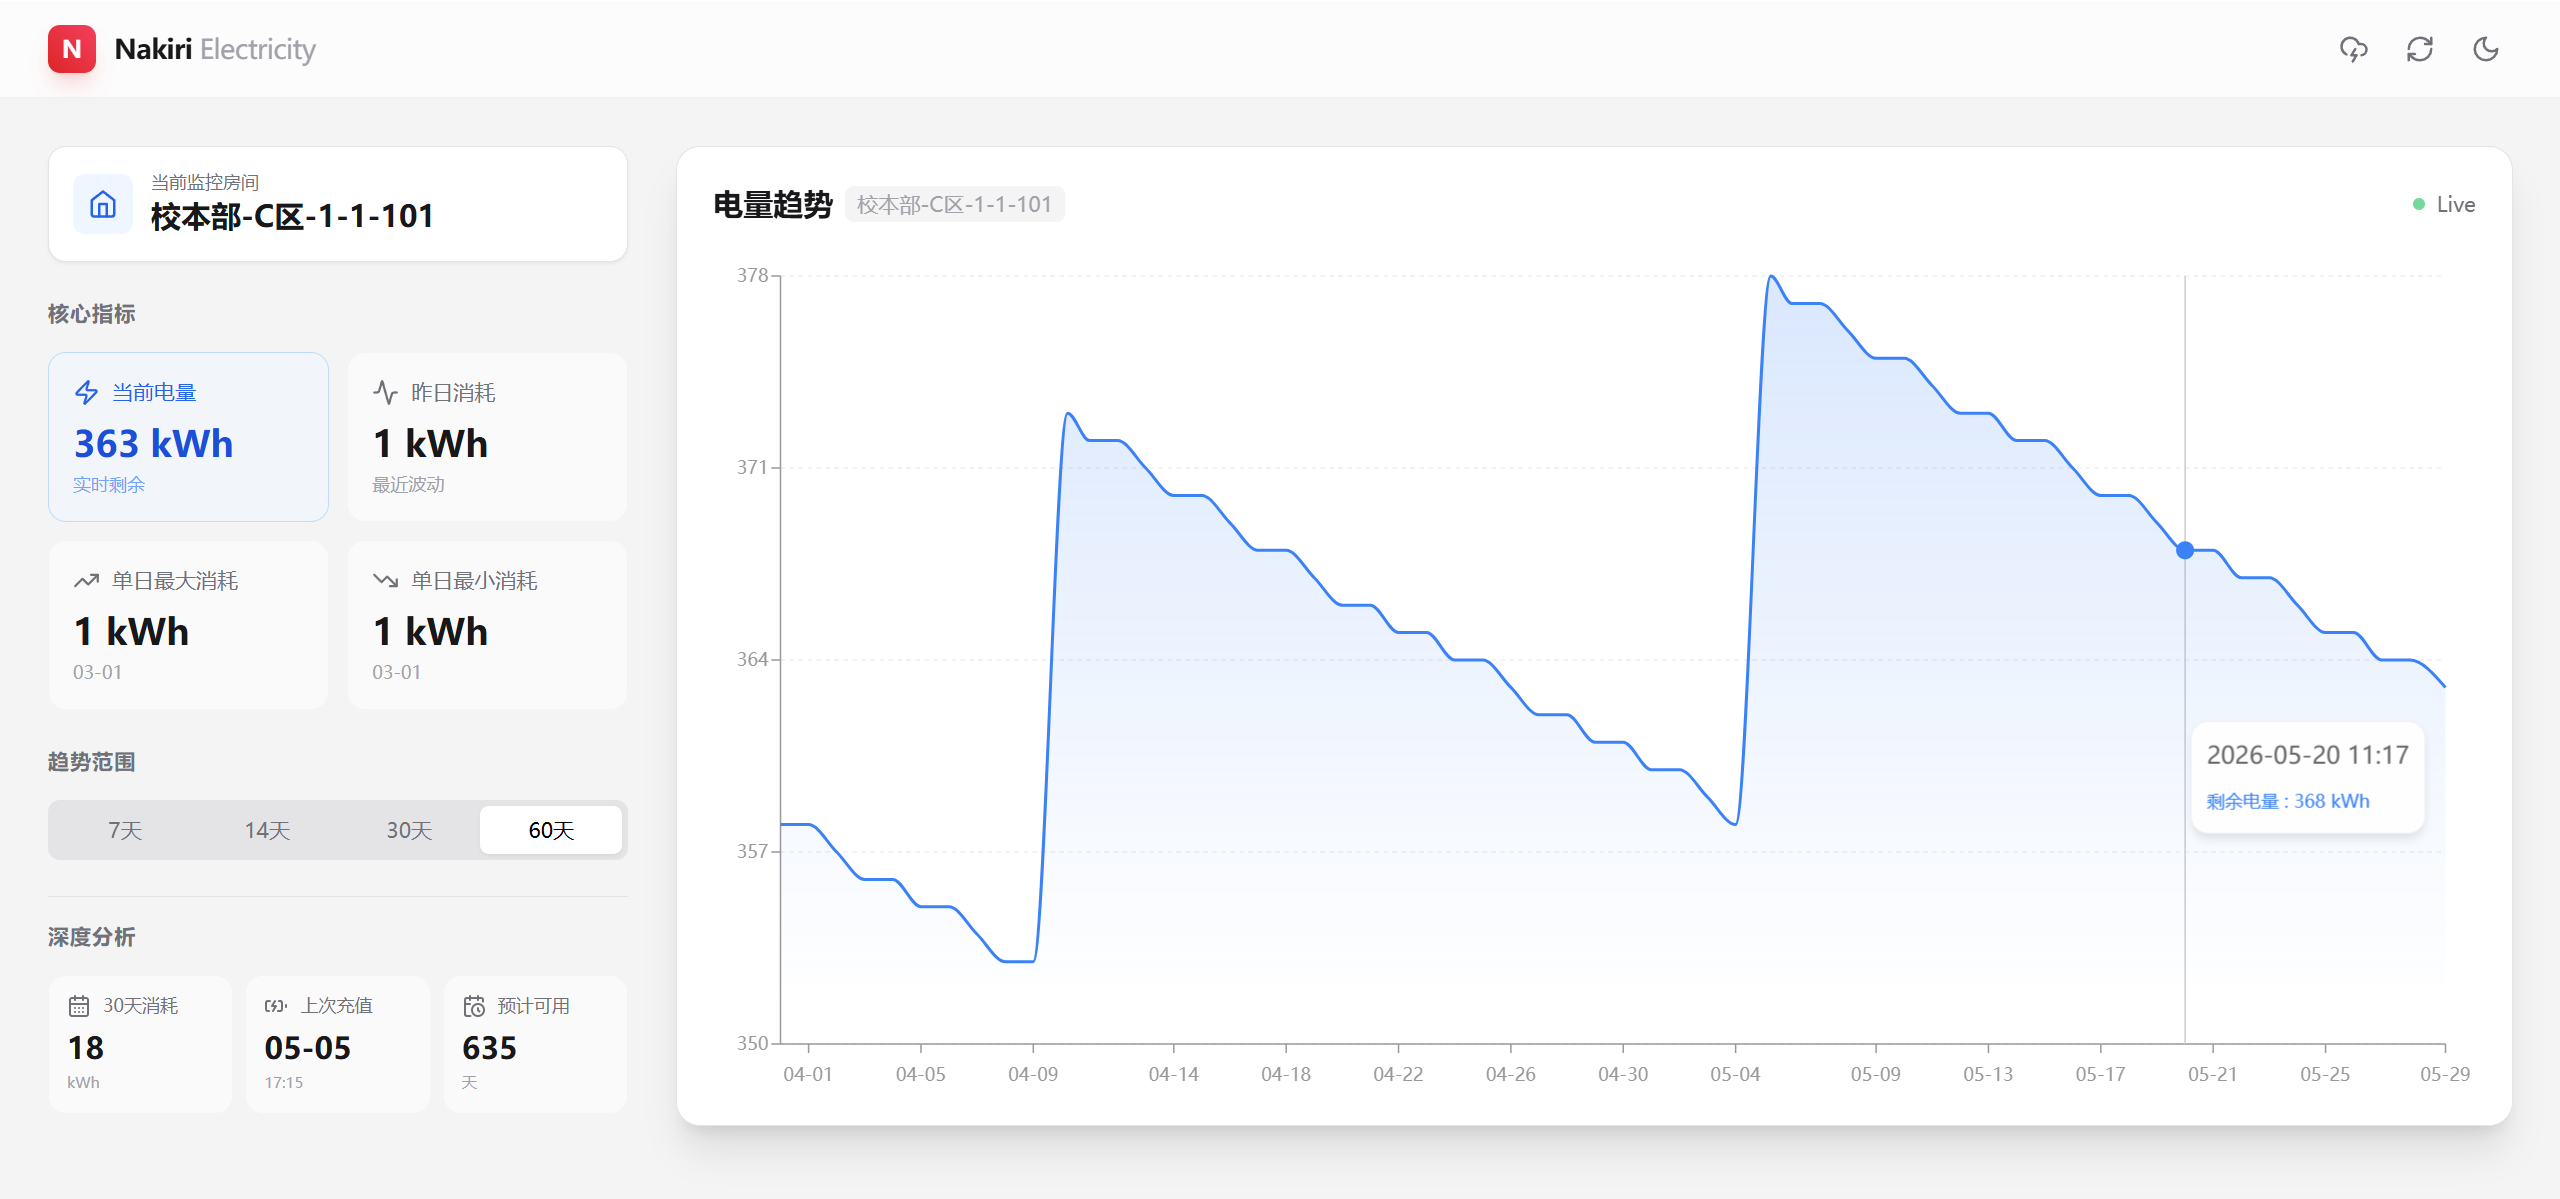
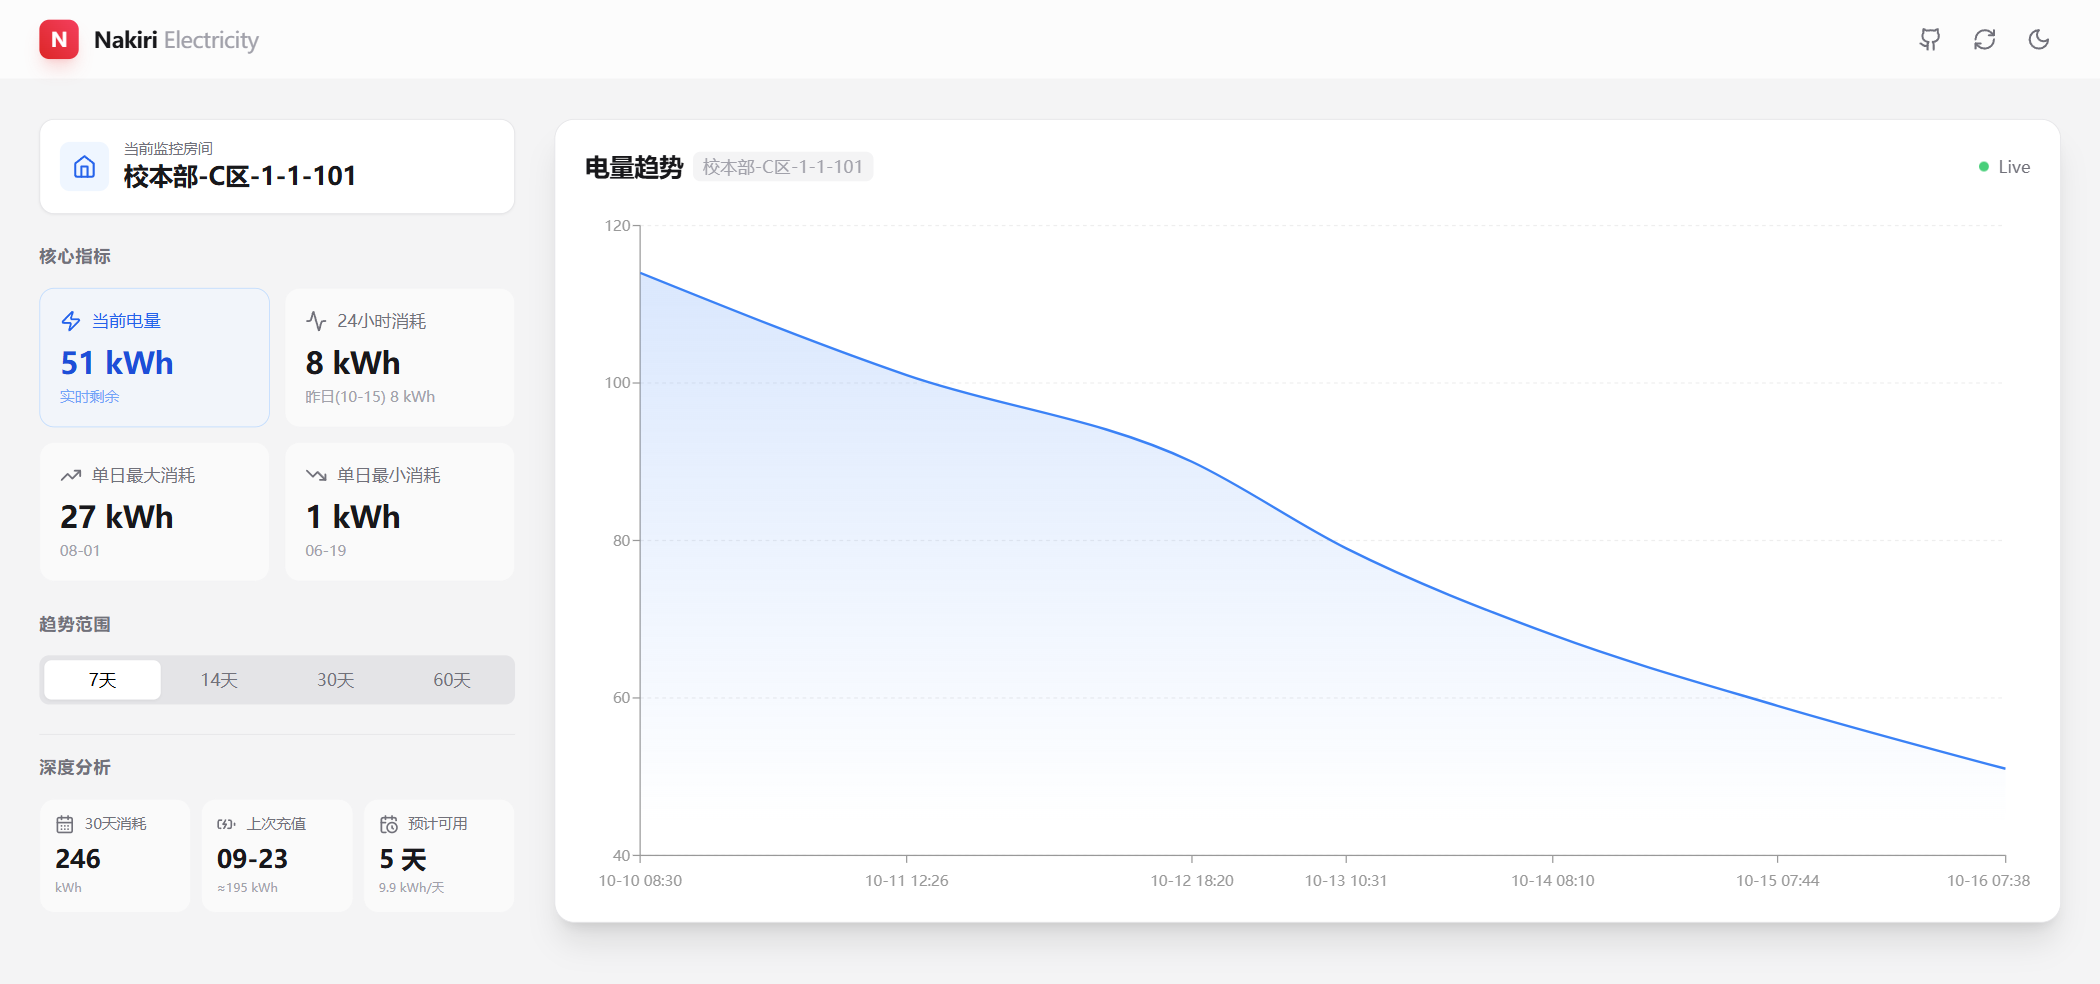
docs: 补充采集与统计口径说明
- README 保持部署文档范围，只保留行为变化相关的说明
- 实测数据特征、存储格式、口径约定与已知限制移到 docs/data-notes.md
- 更新面板截图

diff --git a/docs/data-notes.md b/docs/data-notes.md
@@ -1,0 +1,74 @@
+# 采集与统计口径说明
+
+这份文档解释「为什么采集脚本和统计逻辑是这样写的」，面向修改本项目的人。
+所有参数都来自对 `public/data.json` 真实读数的统计（2026-05-29 ~ 2026-10-16，原始 680 条采样），
+运行 `npm run analyze` 可以随时复现这份报告。
+
+## 实测特征与对应决策
+
+| 特征 | 实测结果 | 带来的设计决策 |
+|---|---|---|
+| 读数分辨率 | 680/680 条读数为整数 → **1 kWh 台阶** | 判定「变化」用 `CHANGE_EPSILON = 0.05`；页面整数显示，出现小数才保留一位 |
+| 更新节奏 | 137 次消耗跳变 / 137 个用电日 ≈ **1 次/天** | 源站每天只结算一次，3 小时采集已经足够；再密只是重复采样 |
+| 采样冗余度 | 680 条里有 528 条（**78%**）与上一条数值完全相同 | 只有数值变化的读数才进 history：`data.json` 从 680 条降到 **152 条**（13.6 KB） |
+| 存活 vs 数据 | 把「没停电但没用电」也写成数据点，图上就会出现水平线 | 存活标记单独放 `room_info.lastCheckedAt`（12h 心跳），history 与图表只承载真实变化 |
+| 结算时刻 | 137 次下降跳变的观测区间交集落在本地 **05:00**（127/137 支持） | 「用电日」按本地 05:00 换日；否则「昨日消耗」会整体错一天 |
+| 跳变观测延迟 | 原始采样间隔 p50 4.3h、p90 8.0h、最大 23.8h | 跳变的**发生时刻**只能确定在 `(上次读数, 本次读数]` 内，脚本按此维护结算口径 |
+| 充值 | 14 次上升跳变，多发生在余额低位 | 上升 = `充值 − 期间消耗` 的净跳变，无法反推精确充值额，页面统一标 `≈` |
+| 空提交 | 近 80 次数据提交里 **68%** 只新增了重复值 | 未变化时不改写文件，同时把 cron 挪出 `:00` 整点（定时任务拥堵会让运行被推迟 1~2h） |
+
+## 存储格式
+
+```json
+{
+  "room_info": {
+    "roomId": "1-1-101",
+    "displayName": "校本部-C区-1-1-101",
+    "updatedAt": "…",      // 读数最后一次「发生变化」的时刻
+    "lastCheckedAt": "…"   // 最后一次成功采集的时刻（数值没变时也会刷新）
+  },
+  "history": [
+    { "timestamp": "…", "room_id": "1-1-101", "kWh": 348, "src": "start" },
+    { "timestamp": "…", "room_id": "1-1-101", "kWh": 341, "src": "change" }
+  ]
+}
+```
+
+- history 每条占一行，git diff 只会新增一行；`src` 取 `start` / `change`。
+- **history 里不会出现同值记录**：数值没变时脚本要么完全不写盘，要么（距上次写盘超过 12h）只刷新 `lastCheckedAt`。
+- 前端兼容旧格式：历史里的同值条目会在绘图前被折叠，`lastCheckedAt` 缺失时回落到 `updatedAt`。
+
+## 口径约定
+
+- `kWh` 是**剩余电量**：下降 = 用电，上升 = 充值。
+- 用电日按**本地 05:00** 换日。跳变只能确定发生在 `(上次读数, 本次读数]` 内，
+  落在区间内最近一个边界结算的是**前一个**用电日。
+- 「近 24 小时消耗」「7 天日均」等滚动窗口锚在**最后一次成功采集**（`lastCheckedAt`），
+  而不是最后一次数值变化 —— 用后者会把前一天的跳变也圈进 24h 窗口（实测 8 kWh 会被算成 17 kWh）。
+- 「数据陈旧」判断同样以 `lastCheckedAt` 为准（阈值 24h）：假期几天不跳变是正常的，不该报陈旧。
+
+## 不变量（均有测试覆盖）
+
+1. **压缩无损**：`compactHistory()` 只删重复采样，`buildSteps()` 的跳变序列逐条一致（151 条逐条校验）。
+2. **账目自洽**：累计消耗 − 累计充值 == 首末读数差（实测 1618 − 1321 = 348 − 51）。
+3. **口径一致**：采集脚本、前端、数据报告、阈值告警共用 `src/lib/electricity.js` 这一份领域逻辑。
+
+## 脚本
+
+| 命令 | 作用 |
+|---|---|
+| `node scripts/scrape.js` | 采集一次：数值变了才写 history；没变则按 12h 心跳刷新 `lastCheckedAt`，否则完全不写盘 |
+| `node scripts/scrape.js --dry-run` | 只抓取与判定，不写文件 |
+| `node scripts/analyze-data.js [--json]` | 数据特征与质量报告，CI 里写入 Step Summary 并在异常时 `::warning::` |
+| `node scripts/compact-data.js [--write]` | 把历史压成「只留变化」；写入前强制校验跳变序列等价 |
+| `node scripts/check-threshold.js` | 阈值判断，区分「刚刚跌破」与「持续偏低」，并给出预计可用天数 |
+| `npm test` | 33 项单测与采集端到端测试（含真实数据不变量） |
+
+## 已知限制
+
+- **结算小时无法再从存储反推**：history 只存变更点，相邻条目间隔 ~24h，任何时刻都落在每个跳变的观测区间内，
+  估计值会退化成 0:00。`DAY_BOUNDARY_HOUR = 5` 来自原始逐次采样的统计，由合成数据测试守护。
+- **跳变间隔 >24h 不等于漏采**：可能是「当天没用电」。能反映漏采的是采集间隔本身，
+  因此该判断放在采集时刻（距上次 `lastCheckedAt` >24h 时告警），而不是对历史做统计。
+- 采集脚本的失败是显式的：令牌失效、响应不是 JSON、`data.json` 解析失败都会以非 0 退出码结束并让 job 变红，
+  且**绝不**改写已有的 `data.json`。

diff --git a/README.md b/README.md
@@ -10,12 +10,14 @@
 
 ## ✨ 功能特性
 
-- 📊 **深度数据分析**：实时电量、昨日消耗、单日最大/最小消耗。
+- 📊 **深度数据分析**：实时电量、近 24 小时消耗、昨日消耗、单日最大/最小消耗。
 - 📈 **交互式图表**：支持平滑曲线、数据点交互、多时间维度（7天/14天/30天/60天）。
 - 🎨 **现代化 UI**：基于 Tailwind CSS，完美适配移动端，支持深色模式 (Dark Mode)。
 - 🤖 **全自动运行**：利用 GitHub Actions 自动抓取数据，无需人工干预。
 - ⚡ **智能预测**：基于历史数据估算剩余可用天数，检测充值记录。
-- 🔔 **低电量提醒**：当最新电量低于阈值且本次有新提交时，自动给该 commit 添加提醒评论。
+- 🔔 **低电量提醒**：电量跌破阈值时自动给该 commit 添加提醒评论。
+- 🩺 **数据质量自检**：每次采集后自动核对数据特征，策略与数据不匹配时给出告警。
+- 🧹 **历史只记变化**：读数没变时不写入历史，也就不产生无意义的提交。
 
 ## 🚀 快速部署 (Fork & Run)
 
@@ -81,19 +83,29 @@
    npm run dev
    ```
 
+常用命令：`npm test`（测试）、`npm run scrape`（本地采集一次）、`npm run analyze`（数据质量报告）、`npm run compact`（压缩历史，预览模式）。
+
+> 采集与统计口径（为什么这样设计、数据有哪些特征）：见 [docs/data-notes.md](docs/data-notes.md)。
+
 ## ❓ 常见问题 (FAQ)
 
 **Q: 数据多久更新一次？**
 A: 默认每3小时更新一次（GitHub Actions 定时任务）。你也可以在 Actions 页面手动触发更新。
+读数没有变化时不会写入历史，因此仓库里只会看到真正有新数据的提交。
 
 **Q: 为什么图表显示“暂无数据”？**
 A: 刚部署时没有历史数据。请等待 Actions 运行几次，或者手动触发几次以积累数据。
+
+**Q: 图上某几天没有数据点？**
+A: 那几天电量没有变化（例如假期无人用电），历史只记录变化的读数。
+采集链路是否存活由 `room_info.lastCheckedAt` 反映，页面超过 24 小时看不到它更新就会显示黄色提示。
 
 **Q: 部署失败怎么办？**
 A: 检查 Actions 日志，通常是环境变量配置错误。
 
 **Q: 低电量提醒什么时候会触发？**
-A: 当 `public/data.json` 中最新一条历史记录的电量小于 `THRESHOLD` 时，工作流会自动给新的 commit 添加评论提醒。
+A: 当 `public/data.json` 中最新一条历史记录的电量小于 `THRESHOLD` 时，工作流会自动给新的 commit 添加评论提醒；
+电量持续低于阈值时，最多每 24 小时提醒一次，避免反复刷屏。
 
 ## 📄 许可证
 
